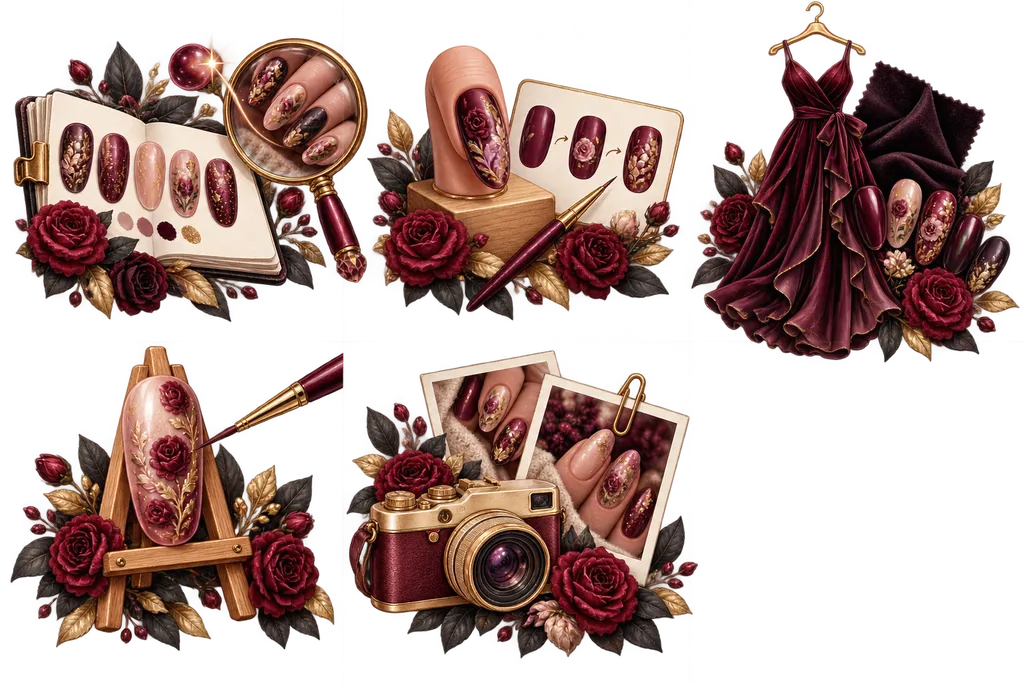
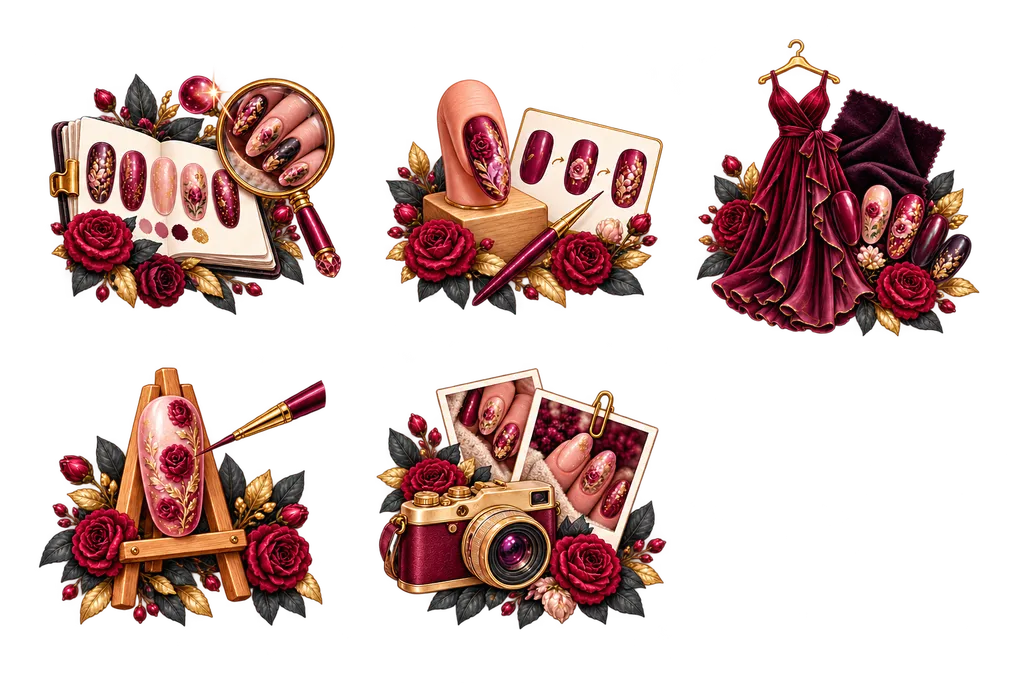
Preserve whole illustrated subjects with transparent gutters

diff --git a/src/design/AtelierArt.jsx b/src/design/AtelierArt.jsx
@@ -11,7 +11,7 @@ export default function AtelierArt({source,className=''}) {
   const theme={'soft-glam':'soft','dark-feminine':'dark',cottagecore:'cottage','pop-pastel':'pop'}[mood]||'soft';
   const individual={ai:'create',inspire:'inspiration',universes:'inspiration',collection:'collection',manual:'create',atelier:'create',photos:'poses',journal:'poses',planning:'planning',guides:'planning',preferences:'preferences',fil:'fil',scan:'scan',projects:'poses',messages:'fil',profile:'inspiration',po:'po',connections:'connections',outfit:'inspiration',trainer:'create'}[source];
   const themedCells={ai:0,trainer:1,outfit:2,atelier:3,photos:4};
-  if(theme!=='cottage'&&themedCells[source]!==undefined){const index=themedCells[source],col=index%3,row=Math.floor(index/3);return <svg className={'nmAtelierArt nmAtelierArt--'+source+' '+className} data-art-theme={theme} data-art-source={source} viewBox={['trainer','outfit','atelier'].includes(source)?'0.09 0 0.82 1':source==='photos'?'0.09 0 0.91 1':'0 0 1 1'} aria-hidden="true" focusable="false" preserveAspectRatio="xMidYMid meet" style={{overflow:"hidden"}}><defs><clipPath id={clip}><rect x={source==='photos'||['trainer','outfit','atelier'].includes(source)?0.09:0} y="0" width={['trainer','outfit','atelier'].includes(source)?0.82:source==='photos'?0.91:1} height="1"/></clipPath></defs><image clipPath={`url(#${clip})`} x={-col} y={-row} width="3" height="2" preserveAspectRatio="none" href={import.meta.env.BASE_URL+'atelier/tiles-v4/'+theme+'-atlas.webp'}/></svg>;}
+  if(theme!=='cottage'&&themedCells[source]!==undefined){const index=themedCells[source],col=index%3,row=Math.floor(index/3);return <svg className={'nmAtelierArt nmAtelierArt--'+source+' '+className} data-art-theme={theme} data-art-source={source} viewBox="0 0 1 1" aria-hidden="true" focusable="false" preserveAspectRatio="xMidYMid meet" style={{overflow:"hidden"}}><defs><clipPath id={clip}><rect x="0" y="0" width="1" height="1"/></clipPath></defs><image clipPath={`url(#${clip})`} x={-col} y={-row} width="3" height="2" preserveAspectRatio="none" href={import.meta.env.BASE_URL+'atelier/tiles-v4/'+theme+'-atlas.webp'}/></svg>;}
   if(theme!=='cottage'&&source==='manual')return <img className={'nmAtelierArt nmAtelierArt--manual '+className} data-art-theme={theme} data-art-source={source} src={import.meta.env.BASE_URL+'atelier/tiles-v4/'+theme+'-manual.webp'} alt="" aria-hidden="true" loading="lazy" width="512" height="512"/>;
   if(['ai','manual','trainer','outfit','atelier','photos'].includes(source))return <img className={'nmAtelierArt nmAtelierArt--'+source+' '+className} data-art-theme={theme} data-art-source={source} src={import.meta.env.BASE_URL+'atelier/tiles-v3/'+source+'.webp'} alt="" aria-hidden="true" loading="lazy" width="512" height="512"/>;
   if(individual)return <img className={'nmAtelierArt nmAtelierArt--'+source+' '+className} src={import.meta.env.BASE_URL+'atelier/moods-v2/'+theme+'-'+individual+'.webp'} alt="" aria-hidden="true" loading="lazy" width="512" height="512"/>;
